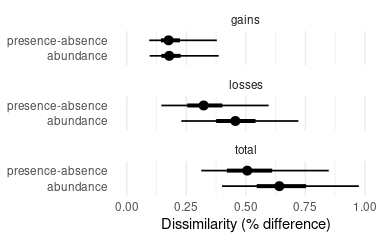
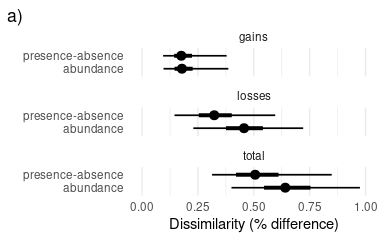
Add figures for tbi and species changes models

diff --git a/notebooks/report.md b/notebooks/report.md
@@ -150,106 +150,34 @@ factors that explain the differences?
     substantial at 0.51 (0.31, 0.85). This indicates, that changes are
     not only driven by a reduction in species abundances, but also by a
     reduction in the species present in May compared to February.
-
-![](report_files/figure-gfm/tbi-plot-1.png)<!-- -->
-
-*Figure 3: Changes in community composition in February, at the start of
-the dry season, and May, towards the end of the dry season. Changes are
-measured using the Temporal beta-diversity index which is composed by
-dissimilarities due to species gains and species losses.*
-
   - We found that only a handful species show consistent changes between
     February and May across refuges and years. This is likely due to the
     dramatic differences in community composition across refuges and
     over time.
+  - However there were differences between species types. Black species
+    were more likely to be lost than grey and white species.
 
-![](report_files/figure-gfm/species-diff-plot-1.png)<!-- -->
+![](report_files/figure-gfm/tbi-plot-1.png)<!-- -->![](report_files/figure-gfm/tbi-plot-2.png)<!-- -->
 
-*Figure 4: Species that showed a consistent decrease between February
-and May across all refuges and years. Only species that show a likely
-decrease (p \< 0.33) are shown. Species in which the decrease was
-significant at the 0.05 level are shown in a darker shade.*
+*Figure 3: Changes in community composition in February, at the start of
+the dry season, and May, towards the end of the dry season. (a) Changes
+are measured using the Temporal beta-diversity index which is composed
+by dissimilarities due to species gains and species losses. (b) By the
+end of the dry season, “black” species are more likely to encounter
+losses than “grey” and “white” species.*
 
-![](report_files/figure-gfm/tbi-var-plot-1.png)<!-- -->
+  - We found that channel shape of the ponds and type of channels and
+    inlets were associated with the gains and losses of species during
+    the dry season.
+  - Large water bodies were mode likely to loose species.
 
-``` r
-model_exploration$b@objects[[1]] %>% summary()
-```
+![](report_files/figure-gfm/tbi-factors-plot-1.png)<!-- -->
 
-    ## Linear mixed-effects model fit by REML
-    ##  Data: data 
-    ##        AIC      BIC    logLik
-    ##   414.4944 441.5897 -197.2472
-    ## 
-    ## Random effects:
-    ##  Formula: ~1 | year_s
-    ##         (Intercept) Residual
-    ## StdDev:   0.4436276 1.268556
-    ## 
-    ## Fixed effects: as.formula(x) 
-    ##                                  Value Std.Error  DF   t-value p-value
-    ## (Intercept)                 -1.4923010 0.6258698 109 -2.384363  0.0188
-    ## type_inlet_outletEarth       0.6297808 0.3296374 109  1.910526  0.0587
-    ## type_inlet_outletnone        1.8802652 0.5118842 109  3.673223  0.0004
-    ## type_inlet_outletWater Gate  0.1668414 0.3239381 109  0.515041  0.6076
-    ## large_water_bodyTRUE         0.7601575 0.2882434 109  2.637207  0.0096
-    ## shapeRectangle               0.7927702 0.4914729 109  1.613050  0.1096
-    ## shapeSinuous                 1.1449943 0.6117313 109  1.871728  0.0639
-    ## other_animal_m2TRUE         -0.6229174 0.2750170 109 -2.265014  0.0255
-    ##  Correlation: 
-    ##                             (Intr) typ__E typ_n_ ty__WG l__TRU shpRct shpSns
-    ## type_inlet_outletEarth      -0.333                                          
-    ## type_inlet_outletnone       -0.454  0.312                                   
-    ## type_inlet_outletWater Gate -0.177  0.457  0.239                            
-    ## large_water_bodyTRUE        -0.325 -0.046  0.216 -0.298                     
-    ## shapeRectangle              -0.833  0.143  0.356  0.002  0.270              
-    ## shapeSinuous                -0.566  0.116  0.225 -0.178  0.008  0.695       
-    ## other_animal_m2TRUE         -0.260  0.033  0.077 -0.204  0.079  0.190  0.187
-    ## 
-    ## Standardized Within-Group Residuals:
-    ##         Min          Q1         Med          Q3         Max 
-    ## -2.87300137 -0.60088500 -0.07117423  0.71502353  2.03836874 
-    ## 
-    ## Number of Observations: 119
-    ## Number of Groups: 3
-
-``` r
-model_exploration$c@objects[[1]] %>% summary()
-```
-
-    ## Linear mixed-effects model fit by REML
-    ##  Data: data 
-    ##        AIC     BIC    logLik
-    ##   424.2826 443.436 -205.1413
-    ## 
-    ## Random effects:
-    ##  Formula: ~1 | year_s
-    ##         (Intercept) Residual
-    ## StdDev:   0.1493117 1.362758
-    ## 
-    ## Fixed effects: as.formula(x) 
-    ##                             Value Std.Error  DF   t-value p-value
-    ## (Intercept)            -2.2190761 0.6444536 112 -3.443345  0.0008
-    ## channel_typeconcrete   -1.4471818 0.5431139 112 -2.664601  0.0088
-    ## channel_typeearth      -0.5558923 0.4792490 112 -1.159924  0.2485
-    ## lwb_depth_dry_m         0.6980431 0.3227061 112  2.163092  0.0327
-    ## illegal_fishing_m5TRUE  0.5856378 0.3408787 112  1.718024  0.0886
-    ##  Correlation: 
-    ##                        (Intr) chnnl_typc chnnl_typr lwb___
-    ## channel_typeconcrete   -0.600                             
-    ## channel_typeearth      -0.729  0.795                      
-    ## lwb_depth_dry_m        -0.694  0.017      0.092           
-    ## illegal_fishing_m5TRUE -0.184 -0.016     -0.030      0.184
-    ## 
-    ## Standardized Within-Group Residuals:
-    ##         Min          Q1         Med          Q3         Max 
-    ## -2.95998799 -0.61669248  0.08103988  0.73491165  1.85997944 
-    ## 
-    ## Number of Observations: 119
-    ## Number of Groups: 3
-
-  - On the factors that explain the dissimiarlities in community
-    composition we found
+*Figure 4: Effect of selected factors on species gains and losses during
+the dry season. Dots indicate the median of the distribution and lines
+the 66 and 90% credible intervals. The percentages indicate the
+probability of direction, this is, the probability that the specified
+factor has a positive (or negative) effect in the response variables.*
 
 ## Supplementary figures
 
@@ -307,4 +235,11 @@ ref_data %>%
   theme_minimal()
 ```
 
-![](report_files/figure-gfm/unnamed-chunk-3-1.png)<!-- -->
+![](report_files/figure-gfm/unnamed-chunk-2-1.png)<!-- -->
+
+![](report_files/figure-gfm/species-diff-plot-1.png)<!-- -->
+
+*Species that showed a consistent decrease between February and May
+across all refuges and years. Only species that show a likely decrease
+(p \< 0.33) are shown. Species in which the decrease was significant at
+the 0.05 level are shown in a darker shade.*
